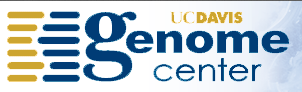
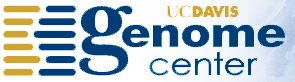
update

diff --git a/index.html b/index.html
@@ -25,6 +25,7 @@
 <body>
 <h1 id="ross-ibarra-lab">Ross-Ibarra Lab</h1>
 <p>Welcome to the Ross-Ibara Lab in the <a href="http://www.plantsciences.ucdavis.edu/plantsciences/">Dept. of Plant Sciences</a> at the <a href="http://www.ucdavis.edu">University of California Davis</a>.</p>
-<p><img src="http://www.rilab.org/images/GC.png" style="width: 100px;"></a> <a href="http://www.genomecenter.ucdavis.edu"></p>
+<p><br></p>
+<p><img src="http://www.rilab.org/images/pslogo.png" style="width: 200px;"></a> <a href="http://www.genomecenter.ucdavis.edu"> <img src="http://www.rilab.org/images/cpb_logo.jpg"" style="width: 200px;"></a> <a href="http://www.genomecenter.ucdavis.edu"> <img src="http://www.rilab.org/images/GC.png" style="width: 200px;"></a> <a href="http://www.genomecenter.ucdavis.edu"></p>
 </body>
 </html>

diff --git a/markdown/index.md b/markdown/index.md
@@ -2,8 +2,13 @@
 
 Welcome to the Ross-Ibara Lab in the [Dept. of Plant Sciences](http://www.plantsciences.ucdavis.edu/plantsciences/) at the [University of California Davis](http://www.ucdavis.edu).
 
+<br>
 
-<img src="http://www.rilab.org/images/GC.png" style="width: 100px;"></a>
+<img src="http://www.rilab.org/images/pslogo.png" style="width: 200px;"></a>
+<a href="http://www.genomecenter.ucdavis.edu">
+<img src="http://www.rilab.org/images/cpb_logo.jpg"" style="width: 200px;"></a>
+<a href="http://www.genomecenter.ucdavis.edu">
+<img src="http://www.rilab.org/images/GC.png" style="width: 200px;"></a>
 <a href="http://www.genomecenter.ucdavis.edu">
 
 
